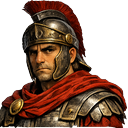
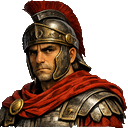
fix: 戦場視認性・編成UI・弓装備・戦間回復ほか微修正
戦場画面:
- ユニット図像の高さを均一化(31px)し全ユニット同サイズに見えるよう正規化
  （非リーダーが小さく見える問題を資産側で是正・両テーマ12枚）
- 体力バーを縦横2倍＋陣営色（味方=青/敵=赤）＋黒縁で視認性向上
- 移動予定線を2倍の太さに

編成画面:
- ▶戦闘開始を最上部に大きく配置（下部からは撤去・ゴースト登録は据置）

顔グラ:
- ローマ兵士(spearman)等の背景の灰色残り/もやを除去（最大連結成分=人物のみ残し、
  分離した背景島＋低アルファのもやを透明化・鎧は無傷。両テーマ）

バランス:
- 戦場クリア→次戦場移動時に全ユニットを最大体力の20%回復（初戦は対象外）
- 長弓 射程+40→+20/攻撃+12→-10、短弓 射程+30→+15/攻撃+10→-15（射程と火力のトレード強化）

npm run build 成功。

diff --git a/apps/client/src/screens/pixiBattlefield.ts b/apps/client/src/screens/pixiBattlefield.ts
@@ -166,9 +166,9 @@ export class PixiBattlefield {
         let prev = { x: px, y: py }
         for (const wp of squad.moveQueue) {
           const w = { x: gx(wp.x), y: gy(wp.y) }
-          g.moveTo(prev.x, prev.y).lineTo(w.x, w.y).stroke({ width: 1.5, color: baseColor, alpha: 0.53 })
-          g.moveTo(w.x - 5, w.y - 5).lineTo(w.x + 5, w.y + 5).stroke({ width: 2, color: baseColor, alpha: 0.53 })
-          g.moveTo(w.x + 5, w.y - 5).lineTo(w.x - 5, w.y + 5).stroke({ width: 2, color: baseColor, alpha: 0.53 })
+          g.moveTo(prev.x, prev.y).lineTo(w.x, w.y).stroke({ width: 3, color: baseColor, alpha: 0.6 })
+          g.moveTo(w.x - 5, w.y - 5).lineTo(w.x + 5, w.y + 5).stroke({ width: 4, color: baseColor, alpha: 0.6 })
+          g.moveTo(w.x + 5, w.y - 5).lineTo(w.x - 5, w.y + 5).stroke({ width: 4, color: baseColor, alpha: 0.6 })
           prev = w
         }
       }
@@ -234,10 +234,12 @@ export class PixiBattlefield {
         if (unit.isCommander) g.circle(ux, uy, UNIT_R + 5).stroke({ width: 2, color: '#ff3344' })
         if (unit.isElephant) this.text('🐘', ux, uy - UNIT_R - 7, 11, '#fff', { ax: 0.5, ay: 0.5 })  // α14: 象マーク
 
-        // HPバー
-        const barW = 14, barX = ux - barW / 2, barY = uy + UNIT_R + 3
-        g.rect(barX, barY, barW, 2).fill('#333333')
-        g.rect(barX, barY, barW * hpPct, 2).fill(hpPct > 0.5 ? '#44dd44' : hpPct > 0.25 ? '#ffaa00' : '#ff4444')
+        // HPバー（縦横2倍・味方=青/敵=赤で陣営を一目で）
+        const barW = 28, barH = 4, barX = ux - barW / 2, barY = uy + UNIT_R + 4
+        const hpColor = isAlly ? '#48aaff' : '#ff4444'
+        g.rect(barX - 1, barY - 1, barW + 2, barH + 2).fill({ color: '#000000', alpha: 0.55 })  // 縁取りで視認性UP
+        g.rect(barX, barY, barW, barH).fill('#222a33')
+        g.rect(barX, barY, barW * hpPct, barH).fill(hpColor)
       })
 
       if (isSelected) this.text(`${isAlly ? '味' : '敵'}${squad.name}`, px, py - 4, 9, baseColor, { ax: 0.5, ay: 1, bold: true })

diff --git a/apps/client/src/screens/FormationScreen.tsx b/apps/client/src/screens/FormationScreen.tsx
@@ -154,6 +154,16 @@ export function FormationScreen({ roster, gold, potions, inventory, items, initi
 
   return (
     <div style={{ maxWidth: 800, margin: '0 auto', padding: '12px', minHeight: '100vh' }}>
+      {/* 戦闘開始（一番上に大きく） */}
+      <div style={{ marginBottom: 12 }}>
+        <Button variant="accent" disabled={!canStart} onClick={() => onStart(squads)}
+          style={{ width: '100%', fontSize: 16, padding: '12px', fontWeight: 'bold' }}>
+          ▶ 戦闘開始
+        </Button>
+        {!canStart && (
+          <div style={{ fontSize: 11, color: C.warn, textAlign: 'center', marginTop: 4 }}>⚠ 最低1名を隊に配置してください</div>
+        )}
+      </div>
       <div style={{ display: 'flex', justifyContent: 'space-between', alignItems: 'center', marginBottom: 12 }}>
         <div style={{ display: 'flex', alignItems: 'center', gap: 10 }}>
           <h1 style={{ fontSize: 18 }}>⚔ 隊編成</h1>
@@ -407,18 +417,8 @@ export function FormationScreen({ roster, gold, potions, inventory, items, initi
         </div>
       </div>
 
-      {/* バリデーションメッセージ */}
-      {!canStart && (
-        <div style={{ fontSize: 11, color: C.warn, textAlign: 'center', marginBottom: 8 }}>
-          ⚠ 最低1名を隊に配置してください
-        </div>
-      )}
-
-      {/* スタートボタン */}
+      {/* ゴースト登録（戦闘開始は最上部へ移動済み） */}
       <div style={{ display: 'flex', gap: 8, justifyContent: 'center', alignItems: 'center', marginTop: 12 }}>
-        <Button variant="accent" disabled={!canStart} onClick={() => onStart(squads)}>
-          ▶ 戦闘開始
-        </Button>
         <Button
           variant="default"
           disabled={!canStart}

diff --git a/apps/client/src/game/equipment.ts b/apps/client/src/game/equipment.ts
@@ -36,8 +36,8 @@ export const EQUIP_DEFS: Record<string, EquipDef> = {
   sword:     { id: 'sword',     name: '剣',   slot: 'weapon', icon: '⚔', attackAdd: 50, attr: 'slash',  perLevelAtk: 5 },
   spear:     { id: 'spear',     name: '槍',   slot: 'weapon', icon: '🔱', attackAdd: 30, defenseAdd: 20, attr: 'pierce', rangeAdd: 2, attackSpeedAdd: -1, moveMultPct: -5, perLevelAtk: 3 },
   fireSword: { id: 'fireSword', name: '炎剣', slot: 'weapon', icon: '🔥', attackAdd: 60, attr: 'fire',   attackSpeedAdd: 1, perLevelAtk: 6 },
-  shortBow:  { id: 'shortBow',  name: '短弓', slot: 'weapon', icon: '🏹', attackAdd: 10, attr: 'pierce', rangeAdd: 30, attackSpeedAdd: -3, moveMultPct: -10, perLevelAtk: 1 },
-  longBow:   { id: 'longBow',   name: '長弓', slot: 'weapon', icon: '🏹', attackAdd: 12, attr: 'pierce', rangeAdd: 40, attackSpeedAdd: -4, moveMultPct: -10, perLevelAtk: 2 },
+  shortBow:  { id: 'shortBow',  name: '短弓', slot: 'weapon', icon: '🏹', attackAdd: -15, attr: 'pierce', rangeAdd: 15, attackSpeedAdd: -3, moveMultPct: -10, perLevelAtk: 1 },
+  longBow:   { id: 'longBow',   name: '長弓', slot: 'weapon', icon: '🏹', attackAdd: -10, attr: 'pierce', rangeAdd: 20, attackSpeedAdd: -4, moveMultPct: -10, perLevelAtk: 2 },
 
   // 防具
   bronzeBody:  { id: 'bronzeBody',  name: '青銅の鎧',   slot: 'body', icon: '🛡', armorDef: { slash: 20, pierce: 20, strike: 20 }, perLevelArmor: 1 },

diff --git a/apps/client/src/App.tsx b/apps/client/src/App.tsx
@@ -64,8 +64,14 @@ export default function App() {
     setMatchType('campaign')
     setCurrentNodeId(nodeId)
     const battle = node.battle
-    // α7: 初回突入時の強制加入（援軍・一般）。入隊レベル=平均、再付与は防止
     let gs = gameState
+    // 次の戦場へ移動時、全ユニットを最大体力の20%回復（戦場クリアごとの休息。初戦は対象外）
+    if (gs.clearedNodes.length > 0) {
+      gs = { ...gs, roster: gs.roster.map(u => ({ ...u, hp: Math.min(u.maxHp, u.hp + Math.ceil(u.maxHp * 0.2)), alive: true })) }
+      setGameState(gs)
+      saveGame(gs)
+    }
+    // α7: 初回突入時の強制加入（援軍・一般）。入隊レベル=平均、再付与は防止
     const needsRecruit = (battle.recruitGenerals || battle.recruitUniques?.length) && !gs.recruitedBattles.includes(battle.id)
     if (needsRecruit) {
       const lvl = avgLevel(gs.roster)
